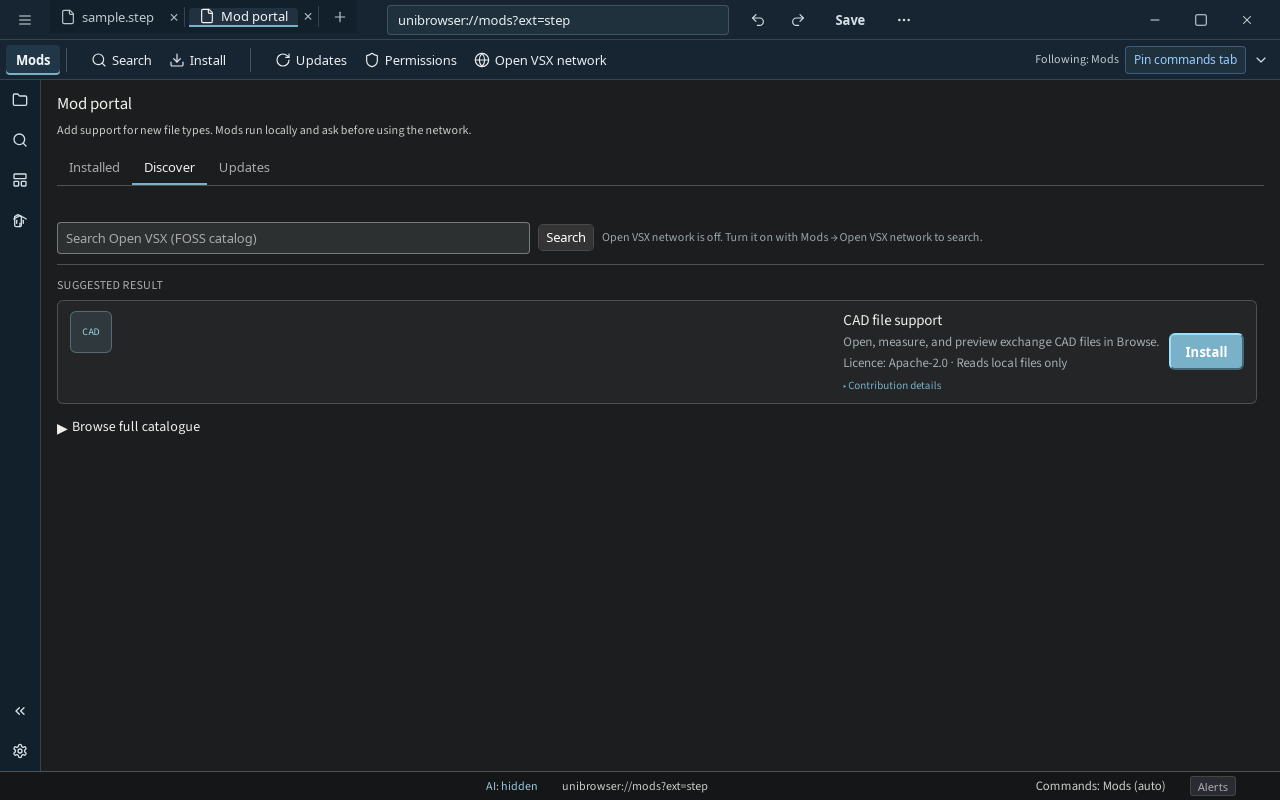
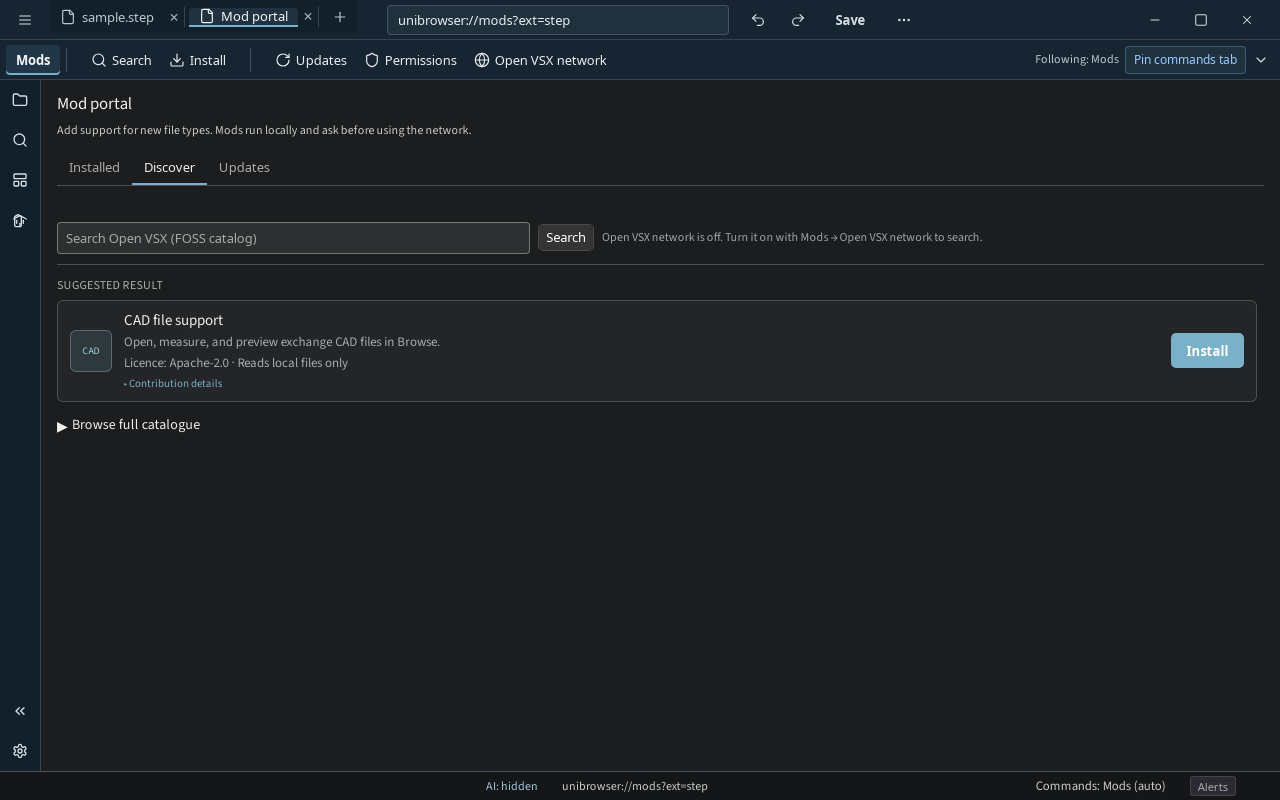
UI-28: fix featured mod card flex layout and flat Install
Wrap suggestion copy in mod-card-body so flex wins over the grid card base.
Flat mod-card-install--flat primary (no shadow). Capture guard: tile-to-text
gap <=24px, Install box-shadow none, and dead-space check. Recapture mod portal.

Changed region(s): [[0.0625, 0.375, 0.3438, 0.5625], [0.6562, 0.375, 0.9688, 0.5]]

diff --git a/crates/unibrowser-desktop/src/styles.css b/crates/unibrowser-desktop/src/styles.css
@@ -5768,16 +5768,10 @@ body.content-fullscreen #unknown-file-banner {
 .mod-result-card--featured {
   border-color: var(--ub-accent, #3d9fd4);
   background: color-mix(in srgb, var(--ub-panel, #252a30) 88%, var(--ub-accent, #3d9fd4) 12%);
-  grid-template-columns: 40px minmax(0, 1fr) auto;
-  grid-template-rows: auto auto auto auto;
-  column-gap: 12px;
-  row-gap: 4px;
-  align-items: start;
 }
 
 .mod-card-thumb {
-  grid-column: 1;
-  grid-row: 1 / span 4;
+  flex: none;
   display: flex;
   align-items: center;
   justify-content: center;
@@ -5786,6 +5780,16 @@ body.content-fullscreen #unknown-file-banner {
   border-radius: 6px;
   background: color-mix(in srgb, var(--ub-accent, #3d9fd4) 14%, var(--ub-panel, #252a30) 86%);
   border: 1px solid color-mix(in srgb, var(--ub-accent, #3d9fd4) 28%, var(--ub-border, #4d5151) 72%);
+}
+
+.mod-card-body {
+  flex: 1 1 auto;
+  min-width: 0;
+  text-align: left;
+  display: flex;
+  flex-direction: column;
+  align-items: stretch;
+  gap: 4px;
 }
 
 .mod-card-thumb .ft-icon {
@@ -5800,8 +5804,6 @@ body.content-fullscreen #unknown-file-banner {
 }
 
 .mod-result-card--featured .mod-suggestion-card-title {
-  grid-column: 2;
-  grid-row: 1;
   font-size: 15px;
   font-weight: 600;
   line-height: 1.3;
@@ -5809,33 +5811,53 @@ body.content-fullscreen #unknown-file-banner {
 }
 
 .mod-result-card--featured .mod-result-reason {
-  grid-column: 2;
-  grid-row: 2;
   font-size: 13px;
   line-height: 1.35;
 }
 
 .mod-result-card--featured .mod-result-meta {
-  grid-column: 2;
-  grid-row: 3;
   font-size: 13px;
 }
 
 .mod-result-card--featured .mod-result-details {
-  grid-column: 2;
-  grid-row: 4;
+  margin-top: 0;
+  grid-column: auto;
+  grid-row: auto;
+}
+
+.mod-result-card--featured .mod-card-body .mod-result-reason,
+.mod-result-card--featured .mod-card-body .mod-result-meta {
+  grid-column: auto;
+  grid-row: auto;
+}
+
+.mod-result-card--featured .mod-suggestion-card-title {
+  grid-column: auto;
+  grid-row: auto;
 }
 
 .mod-card-install-slot {
-  grid-column: 3;
-  grid-row: 1 / -1;
+  flex: none;
   align-self: center;
-  justify-self: end;
 }
 
-.mod-result-card--featured .mod-card-install {
-  width: auto;
+.mod-card-install--flat {
+  font-weight: 600;
+  padding: 0.45rem 0.9rem;
+  border-radius: 5px;
+  border: 1px solid var(--ub-accent, #196f93);
+  background: var(--ub-accent, #196f93);
+  color: #fff;
+  box-shadow: none;
+  cursor: pointer;
   white-space: nowrap;
+}
+
+.mod-card-install--flat:hover,
+.mod-card-install--flat:focus-visible {
+  border-color: var(--ub-accent-hover, #145a75);
+  background: var(--ub-accent-hover, #145a75);
+  box-shadow: none;
 }
 
 [data-theme="light"] .mod-card-thumb {
@@ -5914,6 +5936,13 @@ body.content-fullscreen #unknown-file-banner {
   border: 1px solid var(--ub-border, #4d5151);
   border-radius: 6px;
   background: var(--ub-panel, #252a30);
+}
+
+.mod-result-card.mod-result-card--featured {
+  display: flex;
+  flex-direction: row;
+  align-items: center;
+  gap: 12px;
 }
 
 .mod-card-badge {
@@ -6014,10 +6043,11 @@ body.content-fullscreen #unknown-file-banner {
   margin-top: 4px;
 }
 
-[data-theme="light"] .mod-result-card--featured .mod-card-install.ntp-primary {
+[data-theme="light"] .mod-result-card--featured .mod-card-install--flat {
   border-color: var(--ub-accent, #196f93);
   background: var(--ub-accent, #196f93);
   color: #fff;
+  box-shadow: none;
 }
 
 .mod-card-action {

diff --git a/crates/unibrowser-desktop/src/ui/shellContrast.ts b/crates/unibrowser-desktop/src/ui/shellContrast.ts
@@ -139,6 +139,60 @@ export function rectsOverlap(a: DOMRect, b: DOMRect, minPx = 2): boolean {
 const MOD_CARD_TEXT_SELECTORS =
   "strong, .mod-suggestion-card-title, .mod-result-id, .mod-result-reason, .mod-result-meta, .mod-card-badge, .mod-card-thumb .ft-icon";
 
+const MOD_FEATURED_TEXT_IN_CARD =
+  ".mod-suggestion-card-title, .mod-result-reason, .mod-result-meta, .mod-result-details";
+
+export function validateModFeaturedCardLayout(maxTextGapPx = 24): string | null {
+  const card = document.querySelector(
+    ".mod-result-card--featured",
+  ) as HTMLElement | null;
+  if (!card) {
+    return null;
+  }
+  const thumb = card.querySelector(".mod-card-thumb") as HTMLElement | null;
+  const body = card.querySelector(".mod-card-body") as HTMLElement | null;
+  const install = card.querySelector(".mod-card-install") as HTMLElement | null;
+  if (!thumb || !body || !install) {
+    return "mod featured card layout: missing thumb, body, or install";
+  }
+  const thumbRect = thumb.getBoundingClientRect();
+  const textEls = Array.from(card.querySelectorAll(MOD_FEATURED_TEXT_IN_CARD)).filter(
+    (el): el is HTMLElement => el instanceof HTMLElement,
+  );
+  if (textEls.length === 0) {
+    return "mod featured card layout: no text blocks";
+  }
+  let textLeft = Infinity;
+  for (const el of textEls) {
+    const rect = el.getBoundingClientRect();
+    if (rect.width > 1 && rect.height > 1) {
+      textLeft = Math.min(textLeft, rect.left);
+    }
+  }
+  if (!Number.isFinite(textLeft)) {
+    return "mod featured card layout: text blocks not visible";
+  }
+  const gap = textLeft - thumbRect.right;
+  if (gap > maxTextGapPx) {
+    return `mod featured card layout: text starts ${gap.toFixed(1)}px after tile (max ${maxTextGapPx}px)`;
+  }
+  if (gap < -2) {
+    return `mod featured card layout: text overlaps tile (${gap.toFixed(1)}px)`;
+  }
+  const bodyRect = body.getBoundingClientRect();
+  const installRect = install.getBoundingClientRect();
+  const deadMid = installRect.left - bodyRect.right;
+  const cardRect = card.getBoundingClientRect();
+  if (cardRect.width > 480 && deadMid > cardRect.width * 0.35) {
+    return `mod featured card layout: empty gap between text column and Install (${deadMid.toFixed(0)}px)`;
+  }
+  const shadow = getComputedStyle(install).boxShadow;
+  if (shadow && shadow !== "none") {
+    return `mod featured card layout: Install box-shadow must be none (got ${shadow})`;
+  }
+  return null;
+}
+
 export function validateModCardTextOverlap(): string | null {
   const cards = document.querySelectorAll(".mod-result-card");
   for (const card of cards) {
@@ -234,6 +288,10 @@ export function validateShellDensityContrastForCapture(minRatio = 4.5): string |
     const overlapErr = validateModCardTextOverlap();
     if (overlapErr) {
       return overlapErr;
+    }
+    const layoutErr = validateModFeaturedCardLayout();
+    if (layoutErr) {
+      return layoutErr;
     }
   }
   return null;

diff --git a/crates/unibrowser-desktop/src/modPortalUi.ts b/crates/unibrowser-desktop/src/modPortalUi.ts
@@ -149,7 +149,7 @@ export function appendModSuggestionCard(
   const action = document.createElement("button");
   action.type = "button";
   action.className = featured
-    ? "ntp-primary mod-card-install"
+    ? "mod-card-install mod-card-install--flat"
     : "mod-card-action mod-card-action--primary";
   action.textContent = "Install";
   action.onclick = () => onPrimary(suggestion);
@@ -178,10 +178,13 @@ export function appendModSuggestionCard(
     ft.className = `ft-icon ${visual.className}`;
     ft.textContent = visual.label;
     thumb.appendChild(ft);
+    const body = document.createElement("div");
+    body.className = "mod-card-body";
+    body.append(title, reason, meta, details);
     const installSlot = document.createElement("div");
     installSlot.className = "mod-card-install-slot";
     installSlot.appendChild(action);
-    card.append(thumb, title, reason, meta, details, installSlot);
+    card.append(thumb, body, installSlot);
   } else {
     footer.append(action);
     card.append(badge, title, reason, meta, details, footer);

diff --git a/docs/design/mockup-parity-audit.md b/docs/design/mockup-parity-audit.md
@@ -21,7 +21,7 @@ the opened parity composites before assigning grades.
[5 lines of base64/hex data omitted]
 
 The detailed sections below record the pre-ticket baseline at `dc46d54`; they
 are retained as the discrepancy history that produced UI-21 through UI-28.
@@ -274,7 +274,7 @@ cosmetic or schematic-only; nothing blocks the Quiet Utility parity tickets.
 | File browser | Approved source is a three-region schematic without file rows; app is denser with real data. Places labels are uppercase section headers, not the mockup's single Favourites block. |
 | Markdown / document | Mockup is layout-only; docked editor + AI + Problems match hierarchy. |
 | Image | History/Adjust docks match; mockup uses flatter empty copy. |
-| Mod portal | Featured row matches icon tile + compact Install; catalogue grid and longer Discover intro remain denser than the schematic. Contribution details disclosure is app-only. |
+| Mod portal | Schematic shows one-line licence under title; app keeps description, licence, and Contribution details. Discover catalogue grid and longer intro remain denser than the matrix tile. |
 | Status bar | Still shows AI, path, command context, and Alerts where the mockup often shows only local/online; contrast guard passes (UI-29). |
 
-**Fail rules:** none triggered on the refreshed light captures above.
+**Fail rules (light captures):** mod portal featured card must place text within 24px of the CAD tile (no wide dead band before the copy column); Install must use flat primary styling (`box-shadow: none`); large empty gaps between related elements inside a card fail grading. `2956146` failed the featured-card layout rule before this fix.
